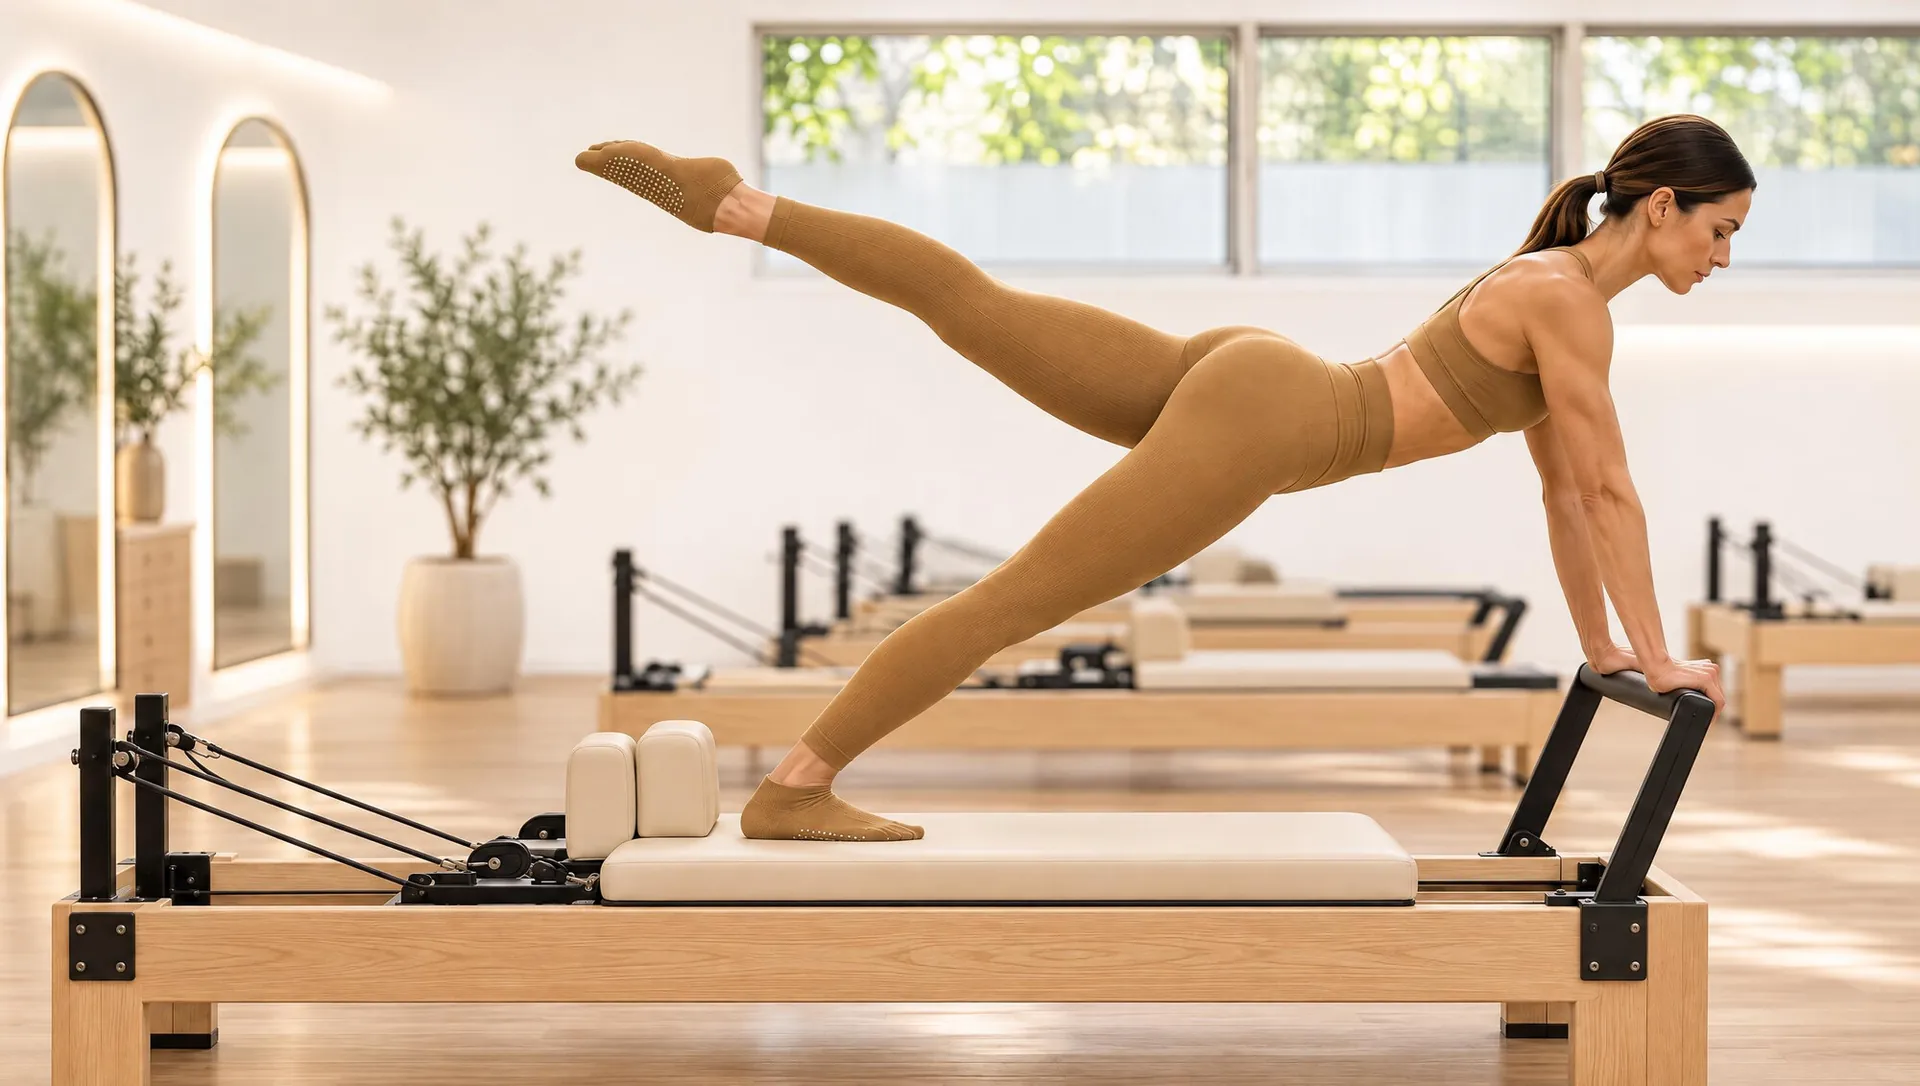
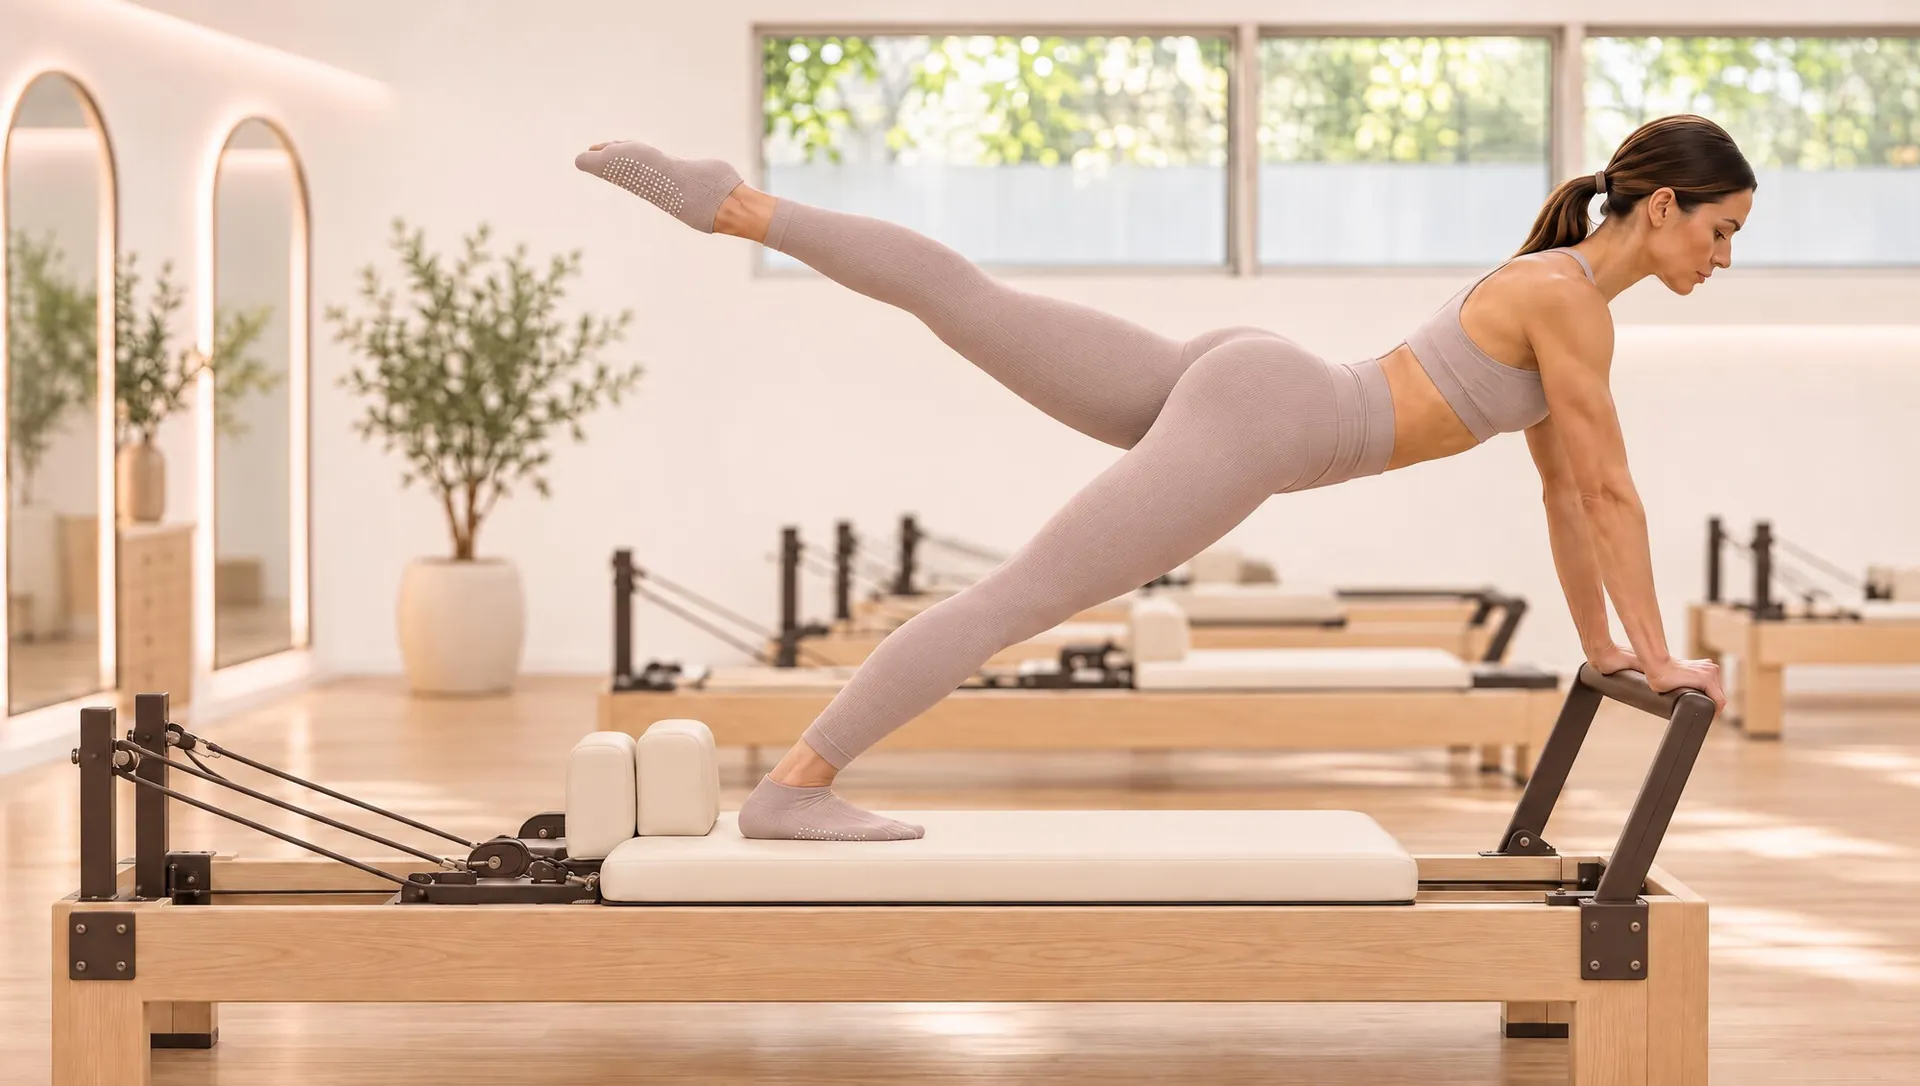
Home hero in the November 2026 brand kit: blush outfit, ivory room, kit colours and type on the card
- Photo recoloured to the kit: her outfit is Frosted Blush, the walls Warm Ivory with a blush glow, Reformer metal in deep mushroom instead of black; the olive tree is the only green
- Card: Card Ivory with Deep Mushroom text; the welcome line in Deep Blush
- Book a class is the one Frosted Blush button on the screen, with Deep Mushroom text; Sign in or join is a Deep Mushroom outline
- Headline type follows the kit: Cormorant Garamond medium in English, Heebo Bold in Hebrew
- Only the hero section and its two photos changed; the rest of the site is untouched

Claude-Session: https://claude.ai/code/session_01SBeE7XB9wjZD2vQijoEJRv

diff --git a/src/styles/global.css b/src/styles/global.css
@@ -2612,13 +2612,17 @@ html[lang="he"] .hero--logo .hero__greet { font-size: 20px; font-weight: 800; le
 .footer__logo { height: 64px; margin: 0 auto; }
 .profile-hello .avatar--brand .logo { height: 56px; }
 
-/* ───────── v4.9 · 17 Nov: home hero is one big studio photo (a plank on the Reformer, in the brand's ivory, oak, beige and logo gold) ─────────
+/* ───────── v4.9 · 17 Nov: home hero is one big studio photo (a plank on the Reformer, in the November 2026 brand kit: ivory room, blush outfit, a little sage) ─────────
    The first screen is the photo, edge to edge, with one cream card on it: logo (always the English mark), welcome, one headline, two buttons.
    Upright screens (phones): a tall photo, the card across the bottom over the open floor.
    Wide screens: the wide photo, the card on its calm side. The photo carries no lettering, so Hebrew mirrors it and the card never covers her. */
-.home-hero { background: var(--paper); color: var(--ink); padding: 8px 12px 20px; }
+/* Brand kit colours, named as in the kit. Kept on the hero so this section matches the kit wherever the page tokens stand. */
+.home-hero {
+  --kit-blush: #cdbab6; --kit-blush-deep: #7a5e58; --kit-blush-soft: #e3d6d2; --kit-ivory: #f6f2ee; --kit-card: #fbf9f6; --kit-ink: #3f3733; --kit-ink-rgb: 63, 55, 51;
+  background: var(--kit-ivory); color: var(--kit-ink); padding: 8px 12px 20px;
+}
 .home-hero__frame {
-  position: relative; overflow: hidden; margin-inline: auto; max-width: 520px; border-radius: 24px; background: var(--b-sun);
+  position: relative; overflow: hidden; margin-inline: auto; max-width: 520px; border-radius: 24px; background: var(--kit-blush-soft);
   /* fills the screen between the header and the tab bar */
   height: calc(100svh - var(--hdr) - var(--safe-t) - var(--safe-b) - 84px); min-height: 580px; max-height: 900px;
 }
@@ -2627,29 +2631,30 @@ html[lang="he"] .hero--logo .hero__greet { font-size: 20px; font-weight: 800; le
 .home-hero__card {
   position: absolute; inset-inline: 12px; inset-block-end: 12px; padding: 20px 18px 18px; border-radius: 20px;
   display: flex; flex-direction: column; align-items: center; text-align: center;
-  background: rgba(255, 253, 250, 0.9); backdrop-filter: blur(14px) saturate(1.1); -webkit-backdrop-filter: blur(14px) saturate(1.1);
-  box-shadow: 0 18px 44px rgba(31, 22, 18, 0.16), 0 0 0 1px rgba(31, 22, 18, 0.05);
+  background: rgba(251, 249, 246, 0.92); backdrop-filter: blur(14px) saturate(1.1); -webkit-backdrop-filter: blur(14px) saturate(1.1);
+  box-shadow: 0 18px 44px rgba(var(--kit-ink-rgb), 0.16), 0 0 0 1px rgba(var(--kit-ink-rgb), 0.06);
 }
 .home-hero__logo { width: 148px; height: auto; margin-bottom: 14px; }
 .home-hero__greet {
   margin: 0 0 6px; display: flex; flex-wrap: wrap; justify-content: center; align-items: baseline; gap: 2px 8px;
-  font-family: "Inter", "Heebo", sans-serif; font-size: 12px; font-weight: 700; letter-spacing: 0.2em; text-transform: uppercase; color: var(--sand-deep);
+  font-family: "Inter", "Heebo", sans-serif; font-size: 12px; font-weight: 700; letter-spacing: 0.2em; text-transform: uppercase; color: var(--kit-blush-deep);
 }
 html[lang="he"] .home-hero__greet { font-size: 15px; letter-spacing: 0; }
-.home-hero__greet b { font-family: "Cormorant Garamond", "Frank Ruhl Libre", Georgia, serif; font-size: 22px; font-weight: 700; letter-spacing: 0; text-transform: none; line-height: 1.05; color: var(--ink); }
+.home-hero__greet b { font-family: "Cormorant Garamond", "Frank Ruhl Libre", Georgia, serif; font-size: 22px; font-weight: 600; letter-spacing: 0; text-transform: none; line-height: 1.05; color: var(--kit-ink); }
 .home-hero__title {
-  margin: 0 0 16px; font-family: "Cormorant Garamond", "Frank Ruhl Libre", Georgia, serif; font-weight: 700;
-  font-size: 44px; line-height: 1; letter-spacing: -0.015em; color: var(--ink);
+  margin: 0 0 16px; font-family: "Cormorant Garamond", Georgia, serif; font-weight: 500;
+  font-size: 46px; line-height: 1; letter-spacing: -0.015em; color: var(--kit-ink);
 }
-html[lang="he"] .home-hero__title { font-family: "Frank Ruhl Libre", "Cormorant Garamond", Georgia, serif; font-size: 40px; letter-spacing: 0; line-height: 1.08; }
+html[lang="he"] .home-hero__title { font-family: "Heebo", "Inter", sans-serif; font-weight: 700; font-size: 38px; letter-spacing: -0.01em; line-height: 1.1; }
 .home-hero__cta { width: 100%; display: flex; flex-direction: column; gap: 8px; }
 .home-hero__cta .btn, html[lang="he"] .home-hero__cta .btn { width: 100%; min-height: 50px; padding-inline: 16px; font-family: "Inter", "Heebo", sans-serif; font-size: 15.5px; font-weight: 800; letter-spacing: 0.04em; }
 html[lang="he"] .home-hero__cta .btn { font-size: 17px; letter-spacing: 0; }
-.home-hero__book { background: var(--ink); color: var(--paper); border: 2px solid var(--ink); text-transform: uppercase; }
-.home-hero__join { background: transparent; color: var(--ink); border: 1.5px solid var(--ink); }
+/* Kit: Frosted Blush is the one welcoming button on the first screen, with Deep Mushroom text (never ivory on blush) */
+.home-hero__book { background: var(--kit-blush); color: var(--kit-ink); border: 2px solid var(--kit-blush); text-transform: uppercase; }
+.home-hero__join { background: transparent; color: var(--kit-ink); border: 1.5px solid var(--kit-ink); }
 @media (hover: hover) and (pointer: fine) {
-  .home-hero__book:hover { background: #3a2d25; border-color: #3a2d25; }
-  .home-hero__join:hover { background: rgba(31, 22, 18, 0.06); }
+  .home-hero__book:hover { background: #c2ada8; border-color: #c2ada8; }
+  .home-hero__join:hover { background: rgba(var(--kit-ink-rgb), 0.06); }
 }
 /* Wide screens: the wide photo, shown whole from side to side, the card on its calm side */
 @media (min-width: 900px) and (min-aspect-ratio: 1/1) {
@@ -2660,11 +2665,11 @@ html[lang="he"] .home-hero__cta .btn { font-size: 17px; letter-spacing: 0; }
   .home-hero__card {
     inset-inline: clamp(16px, 2.4%, 32px) auto; inset-block-end: clamp(16px, 2.4%, 32px);
     width: clamp(250px, 28%, 380px); padding: clamp(20px, 2.2vw, 32px) clamp(18px, 2vw, 28px) clamp(18px, 2vw, 28px); border-radius: 28px;
-    box-shadow: 0 24px 60px rgba(31, 22, 18, 0.18), 0 0 0 1px rgba(31, 22, 18, 0.05);
+    box-shadow: 0 24px 60px rgba(var(--kit-ink-rgb), 0.18), 0 0 0 1px rgba(var(--kit-ink-rgb), 0.06);
   }
   .home-hero__logo { width: 64%; max-width: 232px; margin-bottom: clamp(14px, 1.6vw, 22px); }
   .home-hero__title { font-size: clamp(40px, 4.2vw, 60px); margin-bottom: clamp(16px, 1.8vw, 24px); }
-  html[lang="he"] .home-hero__title { font-size: clamp(36px, 3.8vw, 54px); }
+  html[lang="he"] .home-hero__title { font-size: clamp(34px, 3.5vw, 50px); }
   .home-hero__cta { gap: 10px; }
   .home-hero__cta .btn, html[lang="he"] .home-hero__cta .btn { min-height: clamp(48px, 4vw, 56px); }
 }
@@ -2672,7 +2677,8 @@ html[lang="he"] .home-hero__cta .btn { font-size: 17px; letter-spacing: 0; }
 @media (min-width: 900px) and (min-aspect-ratio: 1/1) and (max-height: 800px) {
   .home-hero__card { padding: 22px 22px 20px; }
   .home-hero__logo { max-width: 176px; margin-bottom: 14px; }
-  .home-hero__title, html[lang="he"] .home-hero__title { font-size: 44px; margin-bottom: 16px; }
+  .home-hero__title { font-size: 44px; margin-bottom: 16px; }
+  html[lang="he"] .home-hero__title { font-size: 38px; margin-bottom: 16px; }
   .home-hero__cta .btn, html[lang="he"] .home-hero__cta .btn { min-height: 48px; }
 }
 @media (prefers-reduced-motion: reduce) { .home-hero__photo img { animation: none; } }

diff --git a/src/config/site.ts b/src/config/site.ts
@@ -90,7 +90,7 @@ export const siteConfig = {
   studioMedia: {
     heroVideo: "/media/hero.mp4", // Seedance 1.5 Pro: empty studio at dawn, dolly in to the gold-ring sign (12s, 1080p, silent); replace with real footage after the shoot
     heroVideoPhone: "/media/hero-720.mp4", // lighter 720p encode served below 1000px (made by the compress-hero workflow)
-    // Home hero photo: a plank on the Reformer in the brand colours (ivory room, oak, beige, the logo's gold). Generated to match the room;
+    // Home hero photo: a plank on the Reformer in the brand kit colours (Warm Ivory room, Frosted Blush outfit, oak, a little sage). Generated to match the room;
     // replace both files after the real shoot. Wide for laptops and landscape tablets, tall for phones.
     heroPhoto: "/assets/hero-reformer-1920.webp",
     heroPhotoTall: "/assets/hero-reformer-tall-1080.webp",

diff --git a/LAUNCH-CHECKLIST.md b/LAUNCH-CHECKLIST.md
@@ -34,7 +34,7 @@ Gift cards sell the three Reformer passes (₪300 / ₪550 / ₪750) or a custom
 - **Requests (private, duo, closed groups):** the `/request` page (type tiles, preferred days and times, name, phone, note) replaces the old contact-form link; it arrives as a lead whose message carries the type, days, times and package. The "Private or Duo session" card under the schedule is gone.
 - **Team:** only Orit is listed; every class shows "with Orit". Add instructors in `src/config/team.ts` when they join.
 - **Hero (21 Oct):** greeting, headline and two buttons only, centred; the facts line, the sub-line and the launch note were removed at the owner's request. The photo/motion stays until a new hero asset exists.
-- **Hero (17 Nov):** the first screen is one big studio photo (a plank on the Reformer, in the brand's ivory, oak, beige and logo gold) with a cream card on it: the RE:SET logo, welcome, one headline ("Get strong." / "להיות חזקה.") and the two buttons. The brand name appears only as the English logo; the "Reset." / "ריסט." headline line is gone. Phones get a tall photo, wide screens a wide one. Both are generated stand-ins (`hero-reformer-1920.webp`, `hero-reformer-tall-1080.webp`): replace both after the professional shoot.
+- **Hero (17 Nov):** the first screen is one big studio photo (a plank on the Reformer, in the November 2026 brand kit: Warm Ivory room, Frosted Blush outfit, oak, a little sage) with a cream card on it: the RE:SET logo, welcome, one headline ("Get strong." / "להיות חזקה.") and the two buttons (Book a class in Frosted Blush, the one blush button on the screen). The brand name appears only as the English logo; the "Reset." / "ריסט." headline line is gone. Phones get a tall photo, wide screens a wide one. Both are generated stand-ins (`hero-reformer-1920.webp`, `hero-reformer-tall-1080.webp`): replace both after the professional shoot.
 - **Single class: ₪60** (teens / soldiers ₪50). Shown on every Reformer class page next to time/length/instructor, on the Reformer, Mat and Teens service pages, at the top of the punch-card list, and in the booking sheet. Airtable *Plans & Prices* rows `single` and `teens` must be updated to ₪60 and ₪200.
 - **Schedule (planned):** 50-minute classes on the hour, 10-minute changeover (owner, 21 Oct). Sun–Fri mornings 08:00, 09:00, 10:00, 11:00 = adults (Reformer for now). Sun–Thu evenings 17:00–20:00 = teens (by request until the teen timetable is set). Closed Saturday; no Friday evening. Final timetable is set closer to opening (`src/lib/booking.ts`).
 - [ ] **Mat:** no Mat slots until Mat instructors join, so the Mat schedule tab is hidden and Mat shows "By request". When it starts: up to 8 people, set `bookable: true` in `src/config/services.ts` and add slots in `src/lib/booking.ts` (Mat capacity is not modelled yet).
